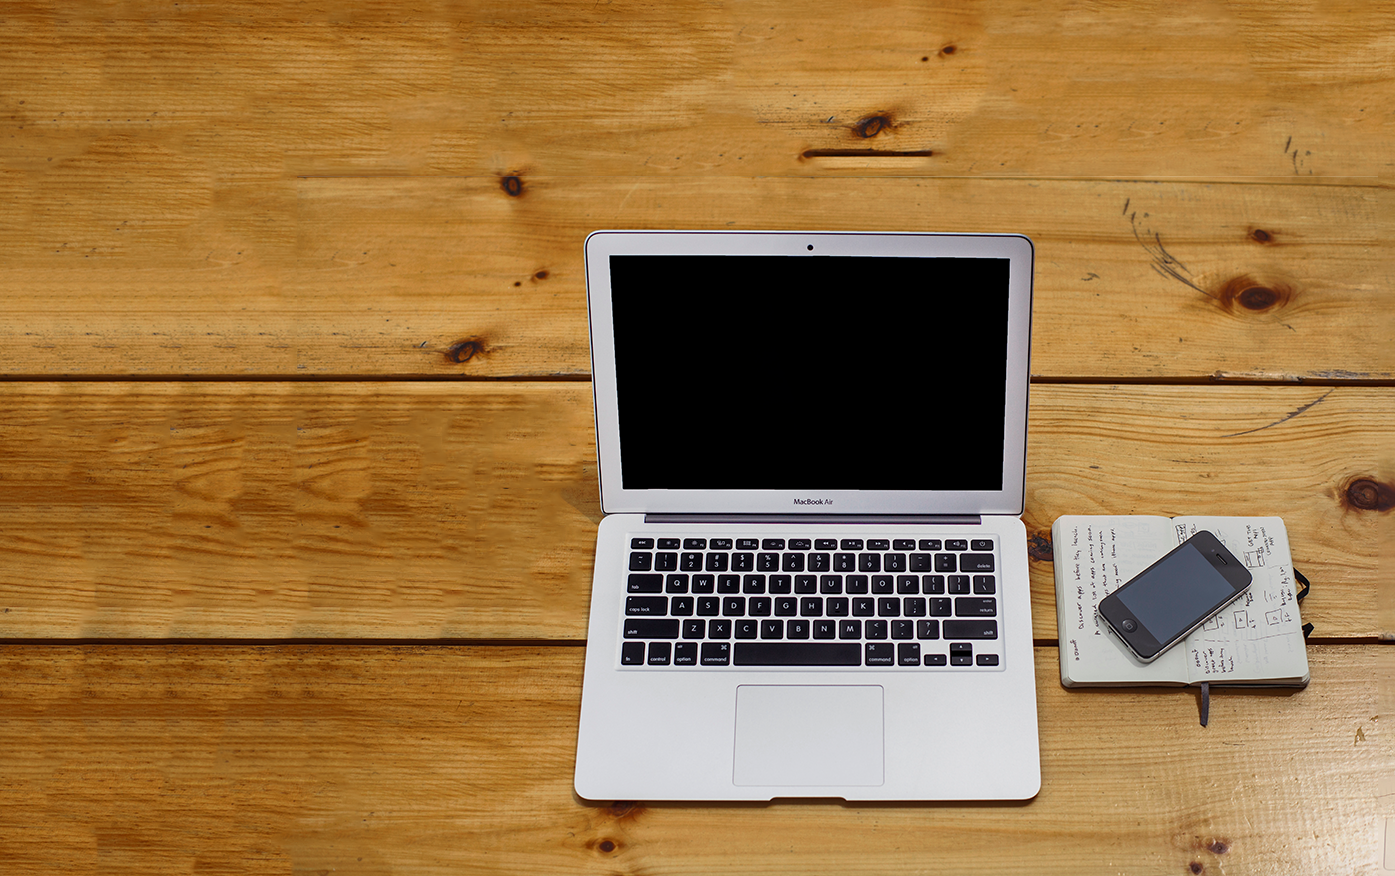
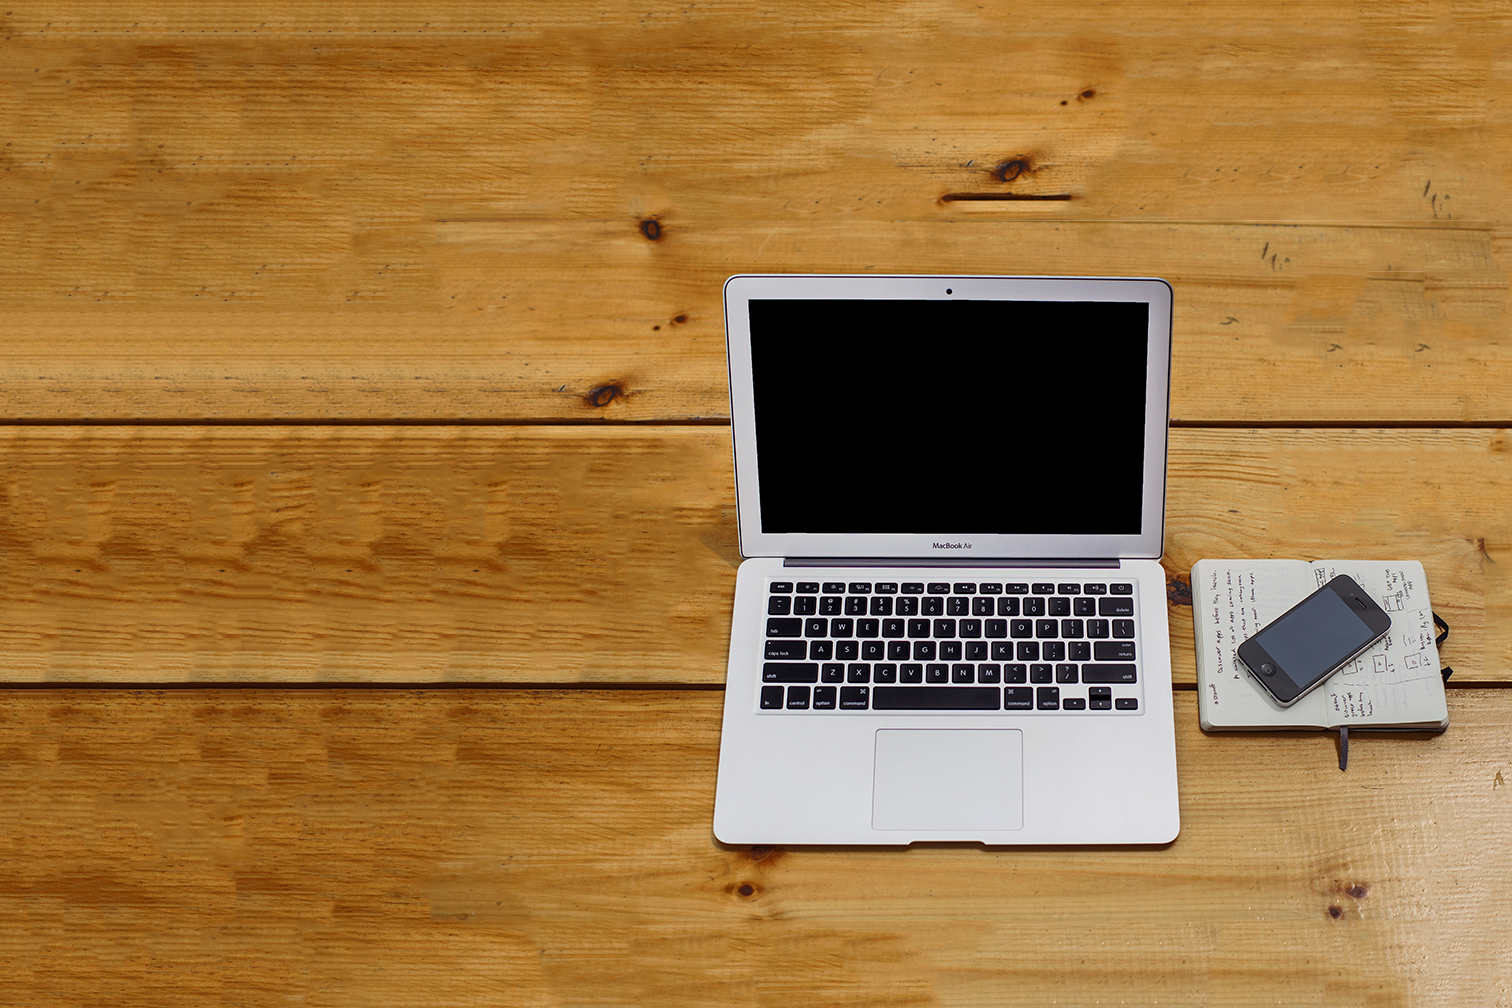
Modified hero-image section
~ zoomed out image
~ title / tagline location
~ tagline formatting
~ dropdown arrow location

diff --git a/_less/modules/general.less b/_less/modules/general.less
@@ -1,212 +1,168 @@
-
 /* ==========================================================================
    General Styles
    ========================================================================== */
 
 // User Select Cancel
 // -------------------------
-
 body {
-
-	overflow-x: hidden;
-	-webkit-touch-callout: none;
-	-webkit-user-select: none;
-	-khtml-user-select: none;
-	-moz-user-select: none;
-	-ms-user-select: none;
-	user-select: none;
-
+    overflow-x: hidden;
+    -webkit-touch-callout: none;
+    -webkit-user-select: none;
+    -khtml-user-select: none;
+    -moz-user-select: none;
+    -ms-user-select: none;
+    user-select: none;
 }
 
 // Webkit Custom Scrollbar
 // -------------------------
-
 ::-webkit-scrollbar {
     width: 10px;
 }
 
 ::-webkit-scrollbar-track {
- 
     -webkit-border-radius: 0px;
-            border-radius: 0px;
-
-    background: fade(@brand-main-color , 10); 
+    border-radius: 0px;
+    background: fade(@brand-main-color, 10);
 }
 
 ::-webkit-scrollbar-thumb {
-
     -webkit-border-radius: 0px;
-           border-radius: 0px;
-
-    background: @brand-main-color; 
+    border-radius: 0px;
+    background: @brand-main-color;
 }
+
 ::-webkit-scrollbar-thumb:window-inactive {
-	background: fade(@brand-main-color , 50); 
+    background: fade(@brand-main-color, 50);
 }
 
 // General Styles
 // -------------------------
-
 .fullscreen-content {
-
-	position: relative;
-	display: block;
-	min-width: 100%;
-	min-height: 100%;
-
+    position: relative;
+    display: block;
+    min-width: 100%;
+    min-height: 100%;
 }
 
 .fullscreen-image {
-
-	position: absolute;
-	z-index: 1;
-	display: block;
-	min-width: 100%;
-	min-height: 100%;
-
+    position: absolute;
+    z-index: 1;
+    display: block;
+    min-width: 100%;
+    min-height: 100%;
 }
 
 .container {
-
-	position: relative;
-	z-index: 2;
-	display: block;
-
+    position: relative;
+    z-index: 2;
+    display: block;
 }
 
 // Image Backgrounds
 // -------------------------
-
 .hero-image {
-  width: 81px;
-	.cover-image(@hero-background-image);
+    width: 81px;
+    .cover-image(@hero-background-image);
 }
 
 .background-image-01 {
-	.cover-image(@blockquote-background-image);
+    .cover-image(@blockquote-background-image);
 }
 
 // Background Colors
 // -------------------------
-
 .main-background-color {
-	background-color: @brand-main-background-color;
+    background-color: @brand-main-background-color;
 }
 
 .secondary-background-color {
-	background-color: @brand-secondary-background-color;
+    background-color: @brand-secondary-background-color;
 }
 
 // Welcome Text
 // -------------------------
-
 .welcome {
-	padding: 1em;
-//	background: rgba(0,0,0,0.6);
-	border-radius: 30px;
-    
-	h1 {
-
-		font-size: 70px;
-		color: #fff;
-		text-transform: uppercase;
-		letter-spacing: 10px
-
-	}
-
-	h4 {
-		color: #fff;
-		font-weight: 300;
-		letter-spacing: 2px;
-
-	}
-
+    padding: 1em;
+    //	background: rgba(0,0,0,0.6);
+    border-radius: 30px;
+    h1 {
+        font-size: 70px;
+        color: #fff;
+        text-transform: uppercase;
+        letter-spacing: 10px
+    }
+    h4 {
+        color: #fff;
+        font-weight: 300;
+        letter-spacing: 2px;
+    }
 }
 
 // Horizontal Ruler
 // -------------------------
-
 hr {
-
-	height: 5px;
-	margin: 20px auto;
-	border-top: 1px solid @brand-secondary-color;
-	border-bottom: 1px solid @brand-secondary-color;
-	border-color: @brand-main-color;
-	max-width: 200px;
-
+    height: 5px;
+    margin: 20px auto;
+    border-top: 1px solid @brand-secondary-color;
+    border-bottom: 1px solid @brand-secondary-color;
+    border-color: @brand-main-color;
+    max-width: 200px;
 }
 
 // Blockquote
 // -------------------------
-
 .blockquote {
-
-	blockquote {
-
-		font-size: 40px;
-		font-family: 'Lato', sans-serif;
-		font-weight: 300;
-		border: 0px;
-		padding: 0 50px 0 50px;
-
-	}
-
-	h3 {
-
-		font-size: 20px;
-		font-family: @brand-secondary-font;
-		text-transform: uppercase;
-
-	}
+    blockquote {
+        font-size: 40px;
+        font-family: 'Lato', sans-serif;
+        font-weight: 300;
+        border: 0px;
+        padding: 0 50px 0 50px;
+    }
+    h3 {
+        font-size: 20px;
+        font-family: @brand-secondary-font;
+        text-transform: uppercase;
+    }
 }
 
 // Content Section
 // -------------------------
-
 .section-content {
-	min-height: 200px;
+    min-height: 200px;
 }
 
 // Google Maps Canvas
 // -------------------------
-
 #map-canvas {
-	width:100%; 
-	height: 650px;
+    width: 100%;
+    height: 650px;
 }
 
 // Diagonals
 // -------------------------
-
 .top-diagonal {
-
-	position: absolute;
-	z-index: 3;
-	margin-top: -80px;
-	width: 100%;
-	height: 80px;
-	display: block;
-
+    position: absolute;
+    z-index: 3;
+    margin-top: -80px;
+    width: 100%;
+    height: 80px;
+    display: block;
 }
 
 .bottom-diagonal {
-
-	position: relative;
-	z-index: 3;
-	bottom: -80px;
-	width: 100%;
-	height: 80px;
-	display: block;
-
+    position: relative;
+    z-index: 3;
+    bottom: -80px;
+    width: 100%;
+    height: 80px;
+    display: block;
 }
 
 .bottom-diagonal-navbar {
-
-	position: relative;
-	width: 100%;
-	height: 80px;
-	display: block;
-
+    position: relative;
+    width: 100%;
+    height: 80px;
+    display: block;
 }
-

diff --git a/_includes/image-hero.html b/_includes/image-hero.html
@@ -5,13 +5,13 @@
             <div class="col-lg-12">
                 <!-- Welcome text -->
                 <div class="welcome" data-0="opacity: 1" data-200="opacity: 0">
-                    <h1 style="margin-left: -75px;" class="text-brand-main-color">{{ site.title }}</h1>
-                    <h4 style="margin-left: -75px;">{{ site.tagline }}</h4>
+                    <h1 style="margin-left: -50px; padding-bottom: 0px;" class="text-brand-main-color">{{ site.title }}</h1>
+                    <h2 style="margin-left: -45px; color: white; padding-top: 0px;">{{ site.tagline }}</h2>
                 </div>
                 <!-- End Welcome text -->
 
                 <!-- Scroll down arrow -->
-                <div class="hero-scroll-down-arrow text-center" data-0="opacity: 1" data-200="opacity: 0">
+                <div class="hero-scroll-down-arrow" data-0="opacity: 1" data-200="opacity: 0" style="padding-left: 175px; margin-top: -120px; font-size: 16px;">
                     <i class="fa fa-chevron-circle-down fa-5x text-white"></i>
                 </div>
                 <!-- End Scroll down arrow -->

diff --git a/_less/main.css b/_less/main.css
@@ -616,8 +616,8 @@ body {
 }
 
 .hero-image {
-    width: 81px;
-    background: transparent url('../media/img/hero-image.jpg') center 0 no-repeat fixed;
+    width: 50px;
+    background: transparent url('../media/img/hero-image.png') center 0 no-repeat fixed;
     -webkit-background-size: cover;
     -moz-background-size: cover;
     -o-background-size: cover;

diff --git a/css/main.css b/css/main.css
@@ -616,8 +616,7 @@ body {
 }
 
 .hero-image {
-    width: 81px;
-    background: transparent url('../media/img/hero-image.jpg') center 0 no-repeat fixed;
+    background: transparent url('../media/img/hero-image.png') center 0 no-repeat fixed;
     -webkit-background-size: cover;
     -moz-background-size: cover;
     -o-background-size: cover;

diff --git a/_less/modules/custom-variables.less b/_less/modules/custom-variables.less
@@ -25,7 +25,7 @@
 @brand-secondary-background-color: @anti-flash-white;
 // Background images
 // -------------------------
-@hero-background-image: '../media/img/hero-image.jpg';
+@hero-background-image: '../media/img/hero-image.png';
 @blockquote-background-image: '../media/img/4.jpg';
 // General variables
 // -------------------------
